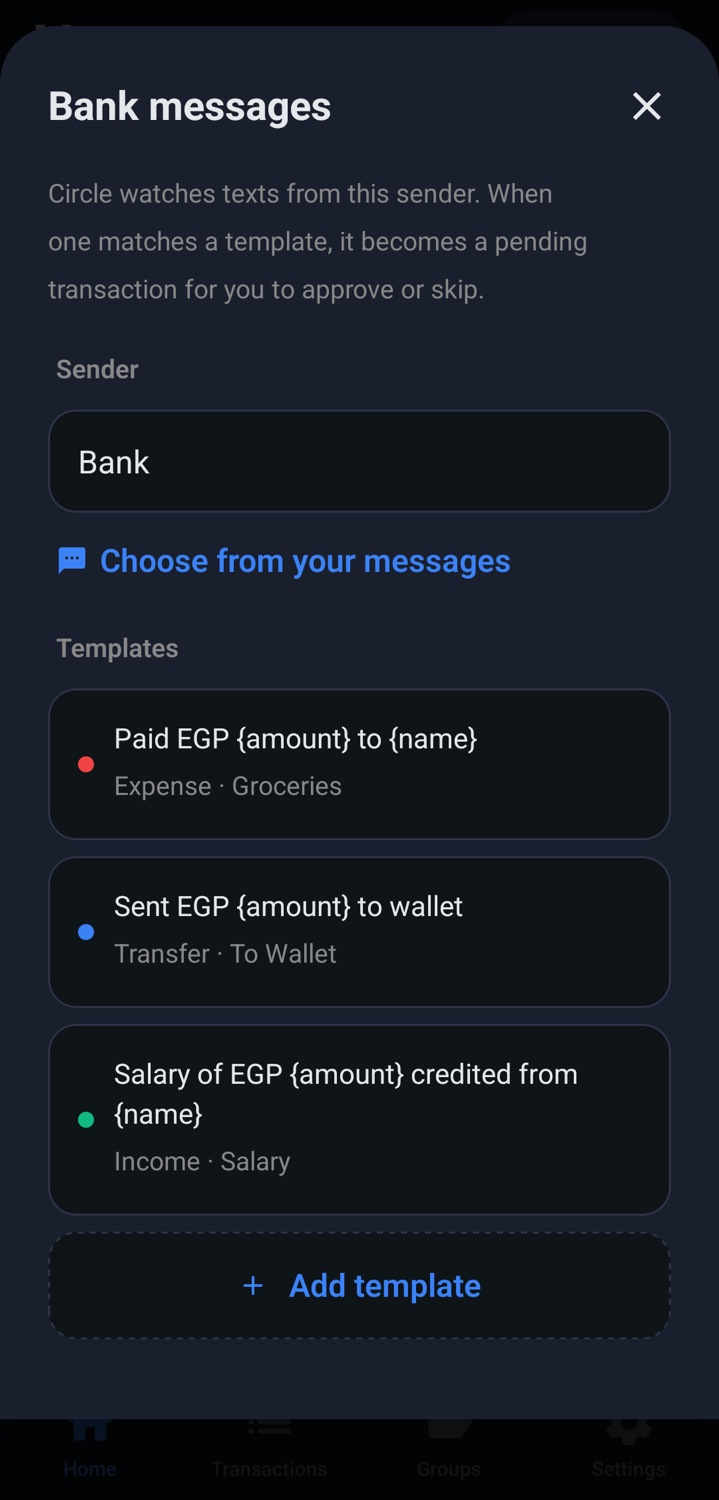
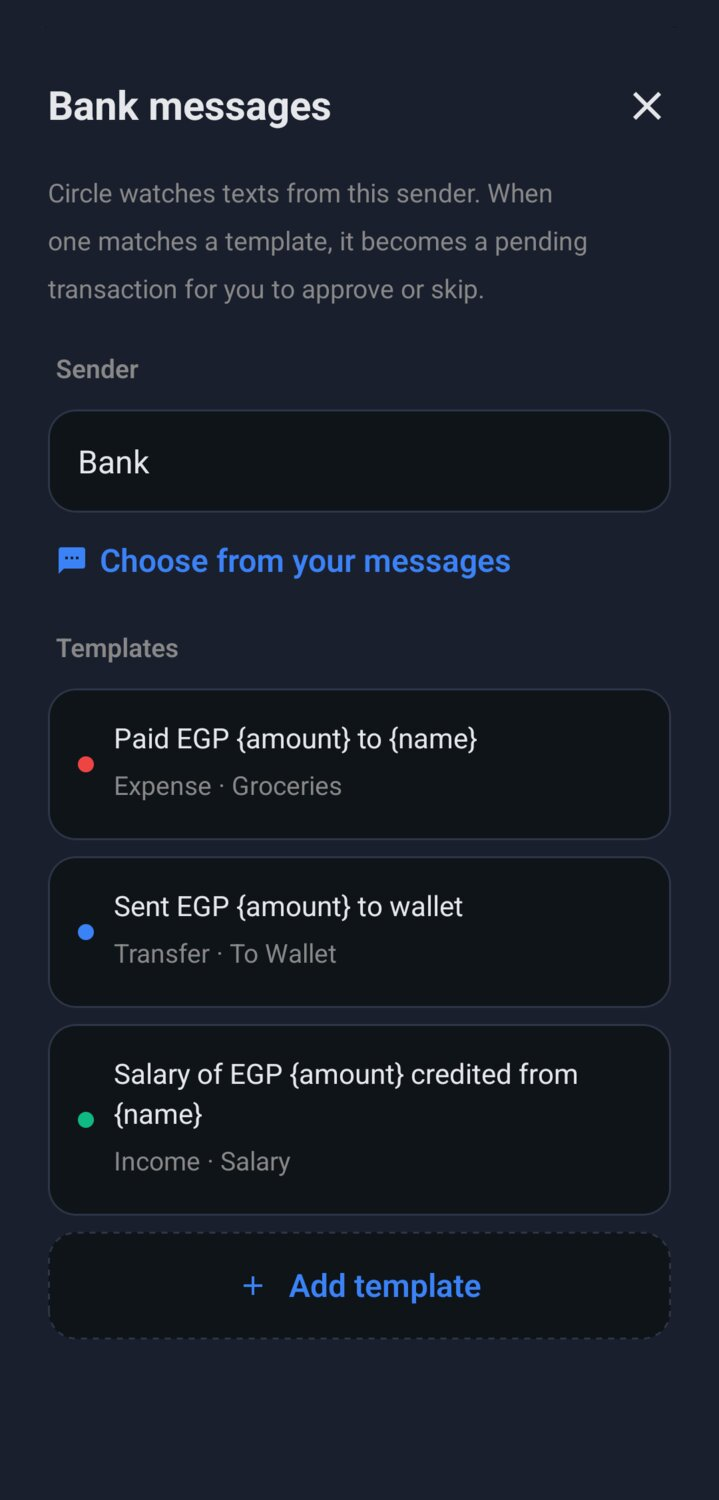
fix: black bands under paired phone screenshots
The first phone in a pair stretched to the height of the offset second one, leaving
an empty black band under its screenshot (Deals, Bank messages). The bank templates
screenshot is redone without the dimmed screen around its sheet.

Changed region(s): [[0.0, 0.92, 1.0, 1.0], [0.0, 0.0, 1.0, 0.0613]]

diff --git a/styles.css b/styles.css
@@ -356,6 +356,8 @@ a {
 
 .phone-pair {
     display: flex;
+    /* Each phone keeps its own height; stretching the first to the offset second left a black band */
+    align-items: flex-start;
     gap: 22px;
 }
 
